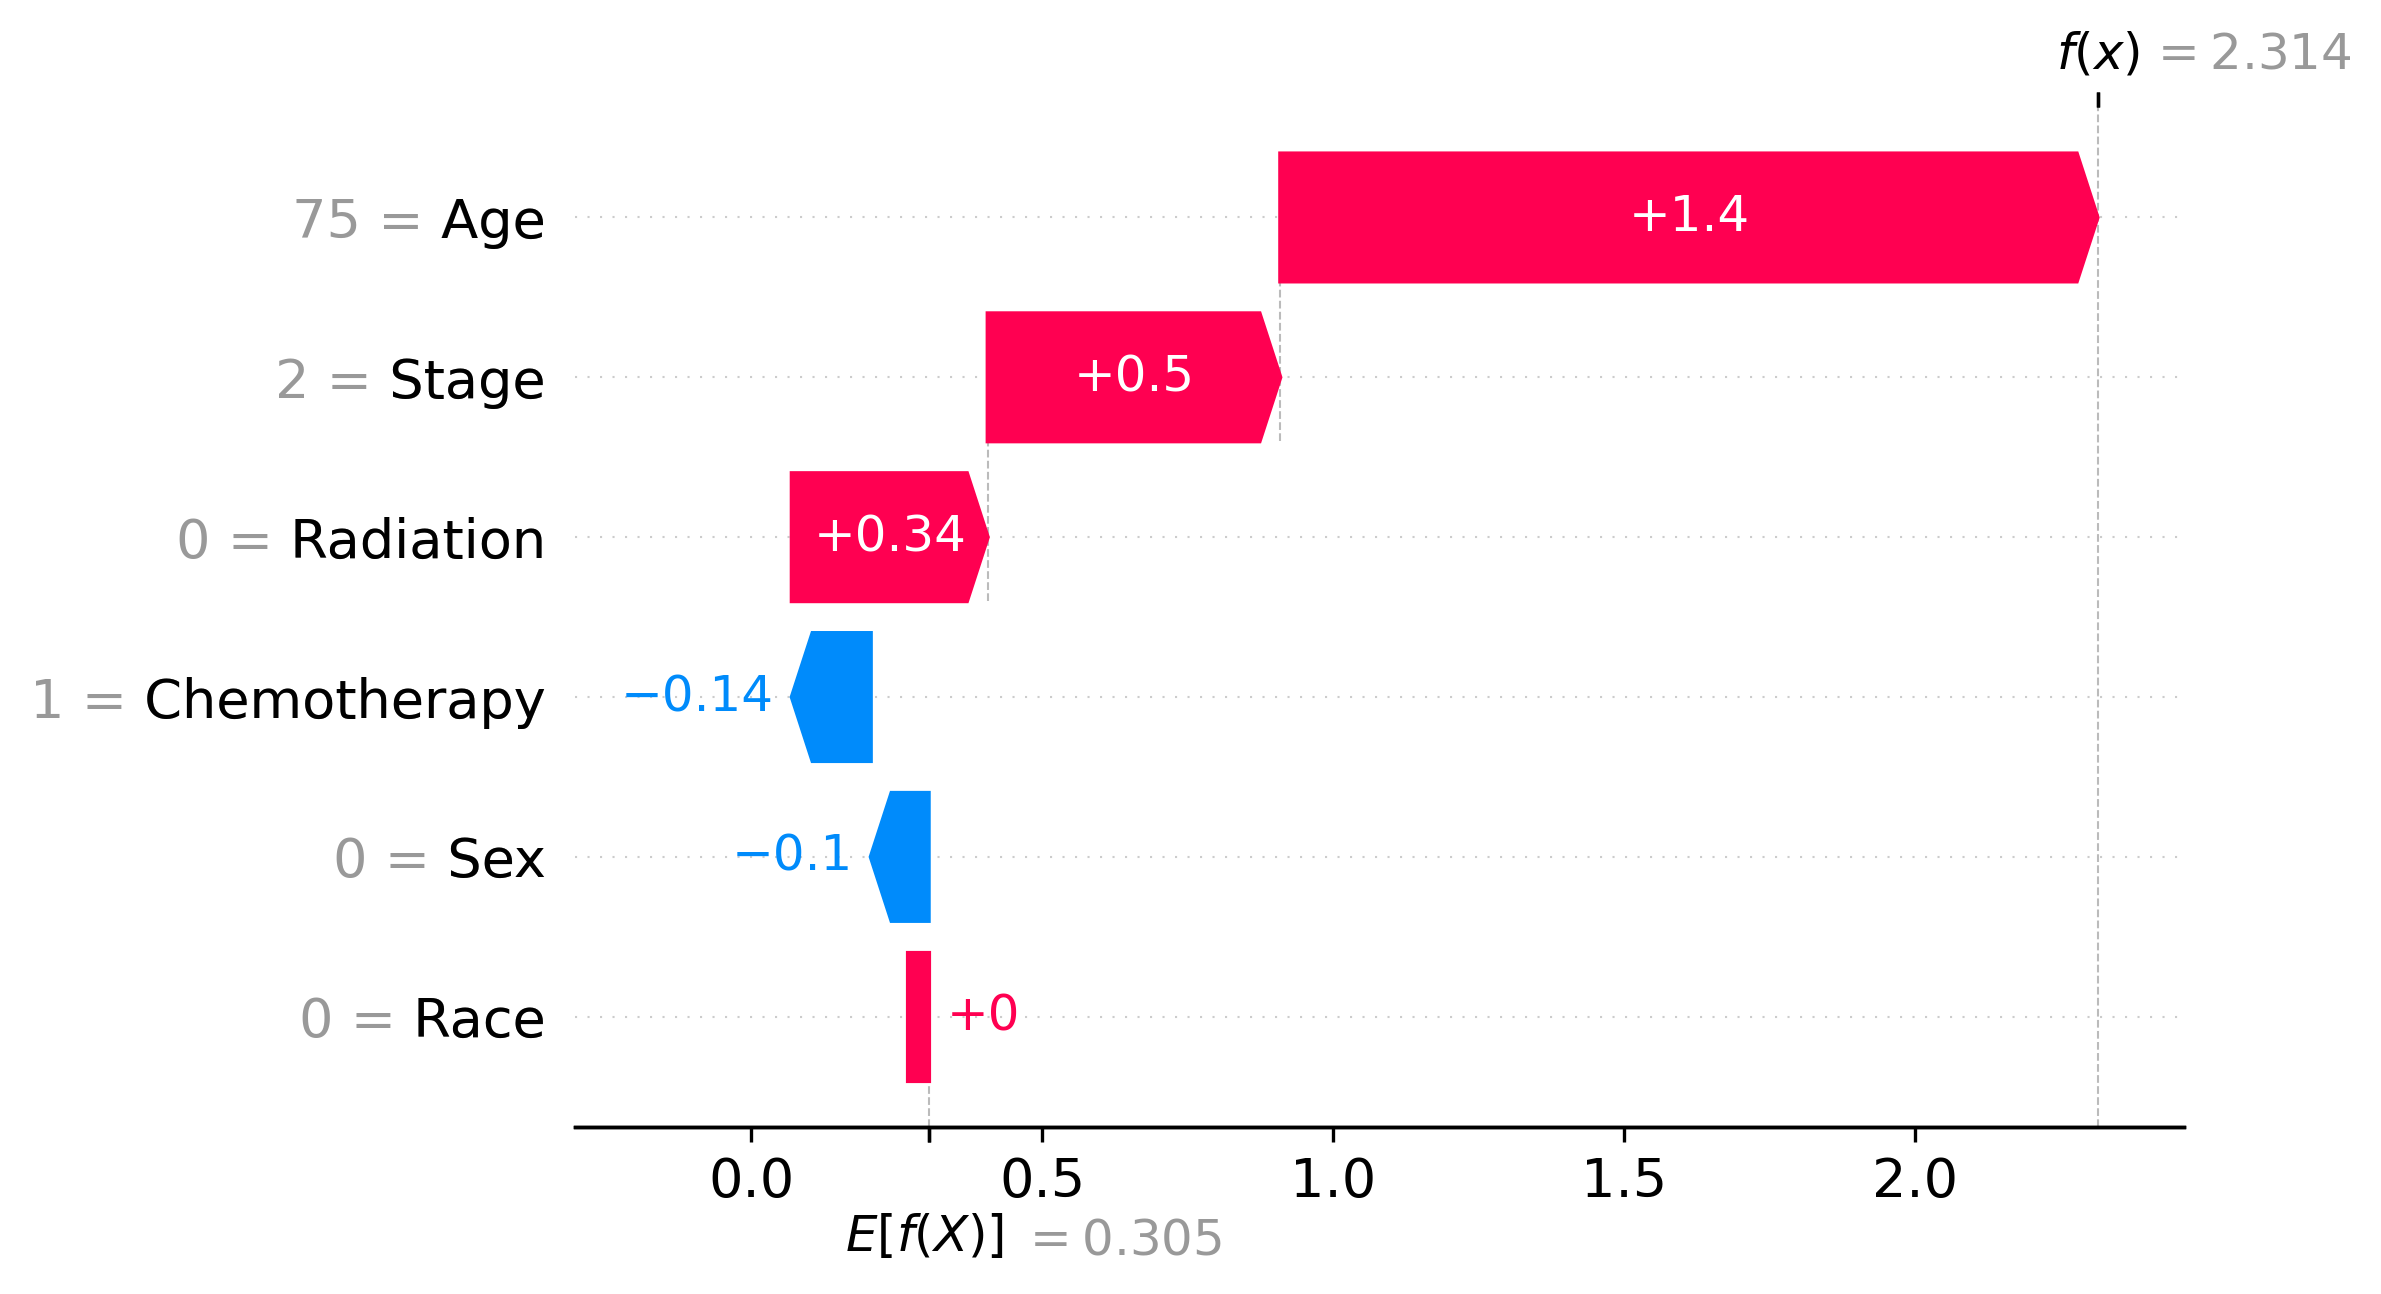
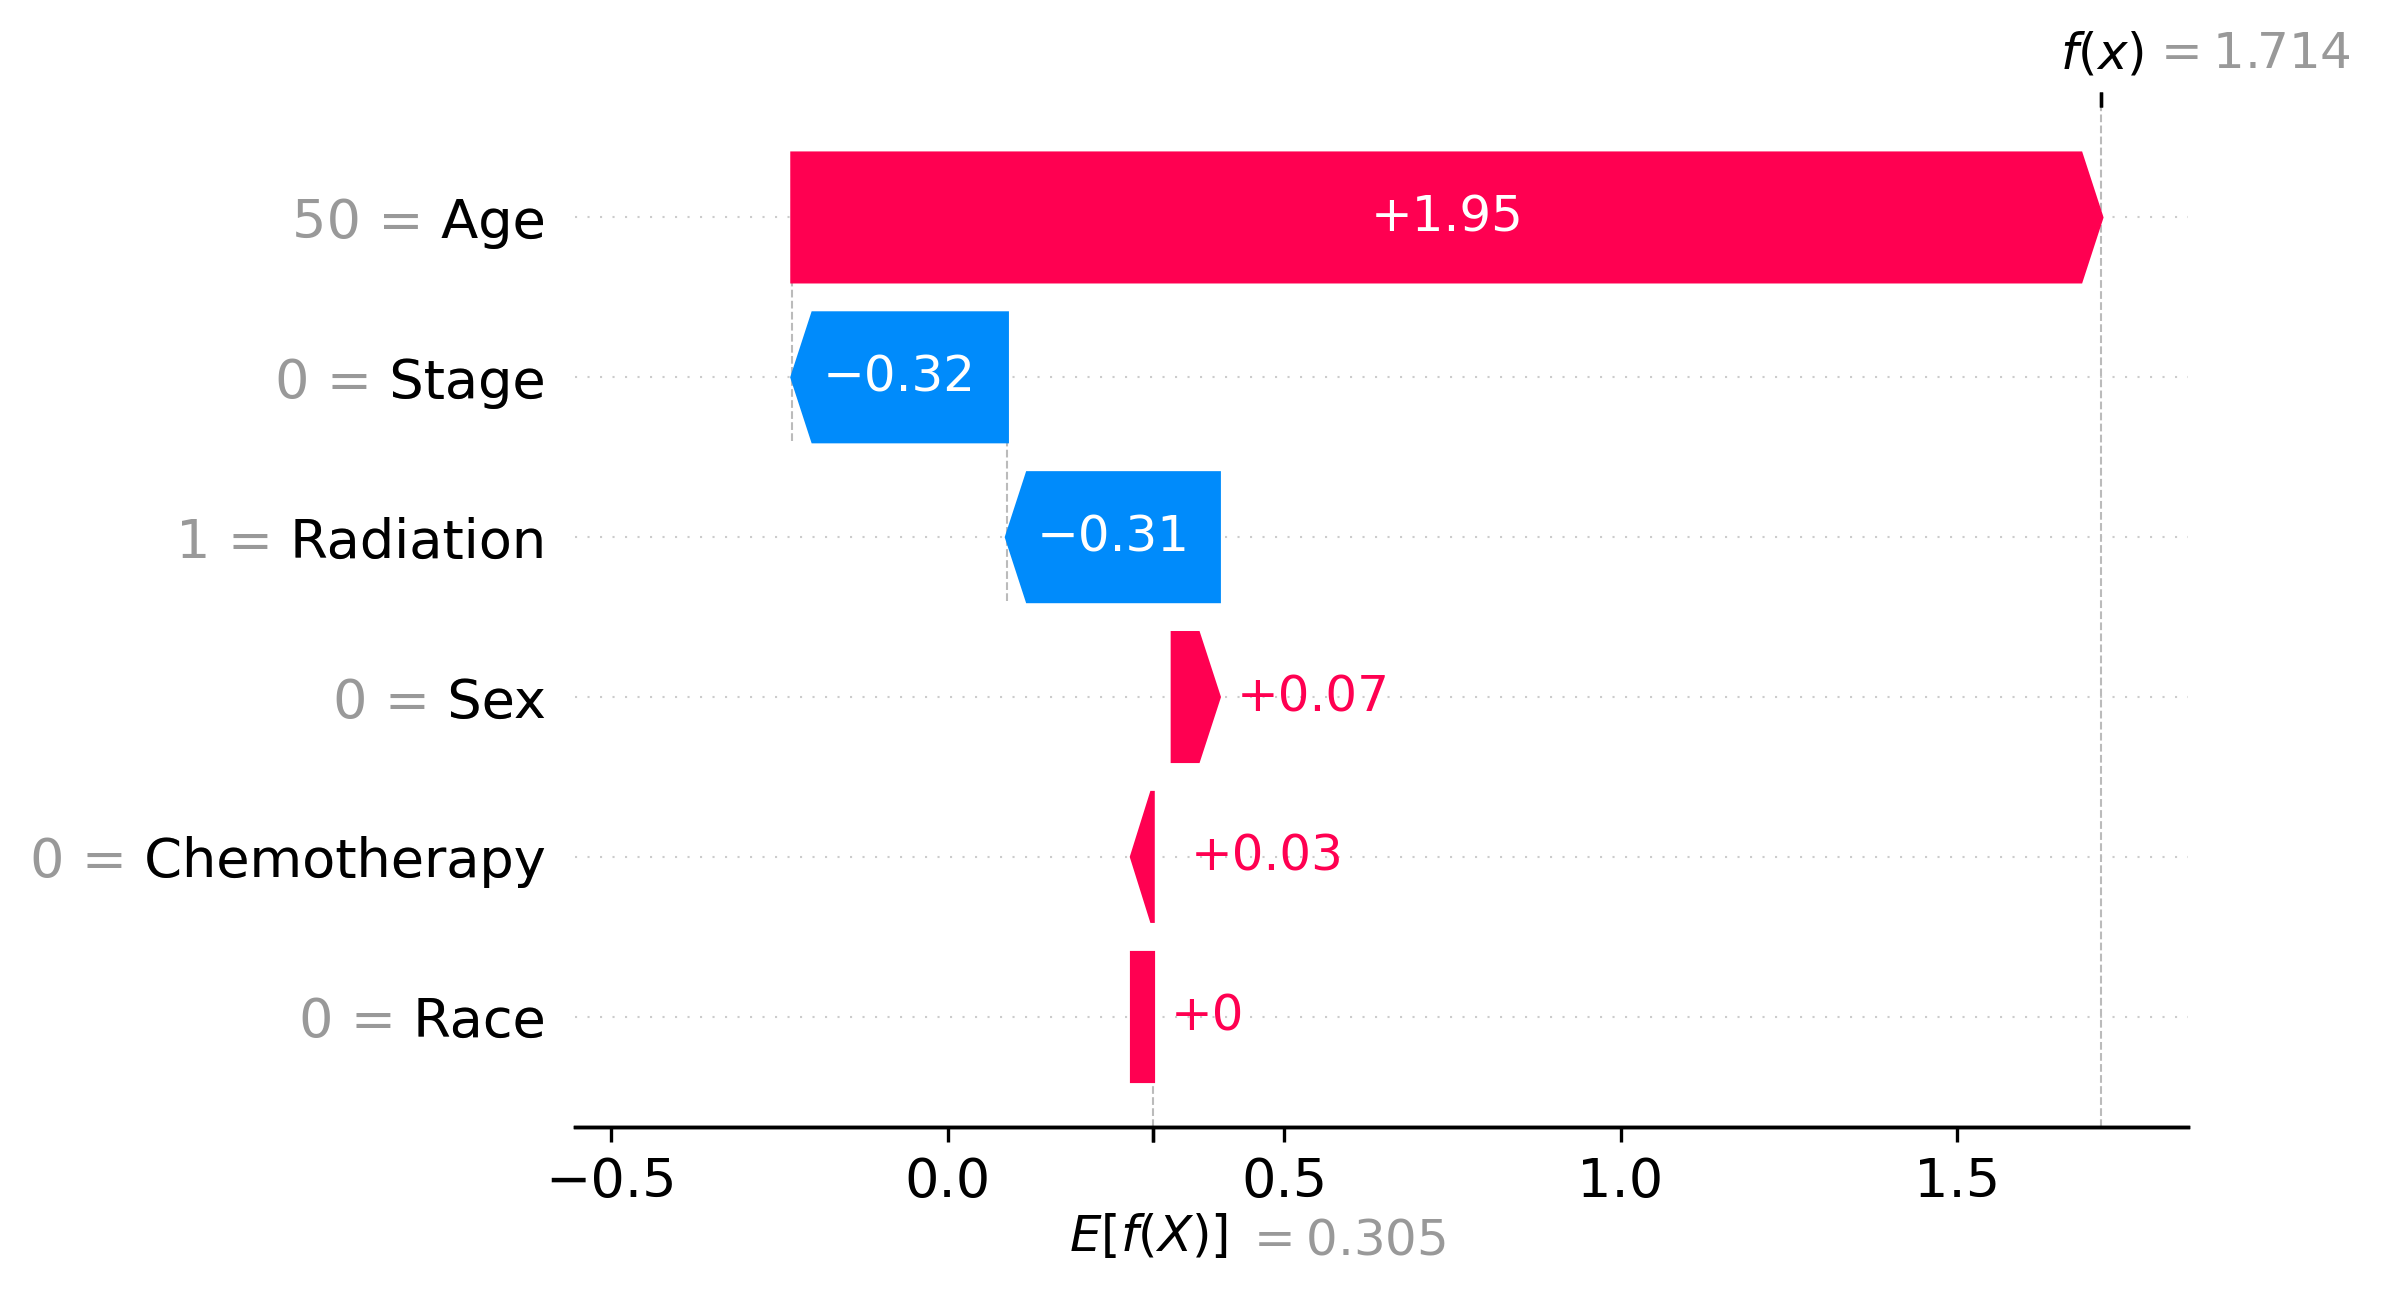
Updated malenoma module features

diff --git a/templates/login.html b/templates/login.html
@@ -83,7 +83,7 @@
             display: flex;
             align-items: center;
             justify-content: center;
-            background: linear-gradient(135deg, var(--primary-dark) 0%, #090e1a 100%);
+            background: radial-gradient(circle at center, #fdfbf7 0%, #f3ece0 100%);
             position: relative;
             overflow: hidden;
         }
@@ -94,7 +94,7 @@
             position: absolute;
             width: 600px;
             height: 600px;
-            background: radial-gradient(circle, rgba(197, 160, 89, 0.12) 0%, rgba(15, 23, 42, 0) 70%);
+            background: radial-gradient(circle, rgba(197, 160, 89, 0.25) 0%, rgba(243, 236, 224, 0) 70%);
             border-radius: 50%;
             top: 40%;
             left: 30%;
@@ -104,13 +104,13 @@
             z-index: 2;
         }
 
-        /* Decorative background circle 2 - Navy Pulse */
+        /* Decorative background circle 2 - Navy/Beige Pulse */
         #login-view::after {
             content: '';
             position: absolute;
             width: 500px;
             height: 500px;
-            background: radial-gradient(circle, rgba(30, 41, 59, 0.6) 0%, rgba(15, 23, 42, 0) 75%);
+            background: radial-gradient(circle, rgba(160, 140, 110, 0.15) 0%, rgba(243, 236, 224, 0) 75%);
             border-radius: 50%;
             top: 60%;
             left: 70%;
@@ -140,16 +140,16 @@
 
         /* Glassmorphism Login Card with Entrance Animation */
         .login-card {
-            background: rgba(255, 255, 255, 0.95);
-            backdrop-filter: blur(8px);
-            -webkit-backdrop-filter: blur(8px);
+            background: rgba(255, 255, 255, 0.92);
+            backdrop-filter: blur(12px);
+            -webkit-backdrop-filter: blur(12px);
             padding: 3rem;
             border-radius: 12px;
-            box-shadow: 0 20px 40px rgba(0, 0, 0, 0.3), inset 0 1px 0 rgba(255, 255, 255, 0.6);
+            box-shadow: 0 20px 50px rgba(139, 120, 90, 0.12), inset 0 1px 0 rgba(255, 255, 255, 0.8), 0 5px 15px rgba(0, 0, 0, 0.03);
             width: 100%;
             max-width: 420px;
             text-align: center;
-            border: 1px solid rgba(255, 255, 255, 0.25);
+            border: 1px solid rgba(255, 255, 255, 0.6);
             border-top: 4px solid var(--accent-gold);
             z-index: 10;
             transition: transform 0.4s cubic-bezier(0.165, 0.84, 0.44, 1), box-shadow 0.4s cubic-bezier(0.165, 0.84, 0.44, 1);
@@ -157,7 +157,7 @@
 
         .login-card:hover {
             transform: translateY(-5px);
-            box-shadow: 0 30px 50px rgba(0, 0, 0, 0.4), 0 0 15px rgba(197, 160, 89, 0.15);
+            box-shadow: 0 35px 70px rgba(139, 120, 90, 0.18), 0 0 25px rgba(197, 160, 89, 0.2);
         }
 
         /* Staggered entrance animation for login-card children */
@@ -2293,7 +2293,7 @@
                         this.vx = (Math.random() - 0.5) * 0.35;
                         this.vy = (Math.random() - 0.5) * 0.35;
                         this.radius = Math.random() * 2 + 1;
-                        this.color = Math.random() > 0.45 ? 'rgba(197, 160, 89, 0.22)' : 'rgba(148, 163, 184, 0.15)';
+                        this.color = Math.random() > 0.45 ? 'rgba(197, 160, 89, 0.45)' : 'rgba(160, 140, 110, 0.35)';
                     }
                     
                     update() {
@@ -2356,7 +2356,7 @@
                                 ctx.beginPath();
                                 ctx.moveTo(p1.x, p1.y);
                                 ctx.lineTo(p2.x, p2.y);
-                                ctx.strokeStyle = `rgba(197, 160, 89, ${alpha})`;
+                                ctx.strokeStyle = `rgba(180, 155, 115, ${alpha * 1.4})`;
                                 ctx.lineWidth = 0.8;
                                 ctx.stroke();
                             }